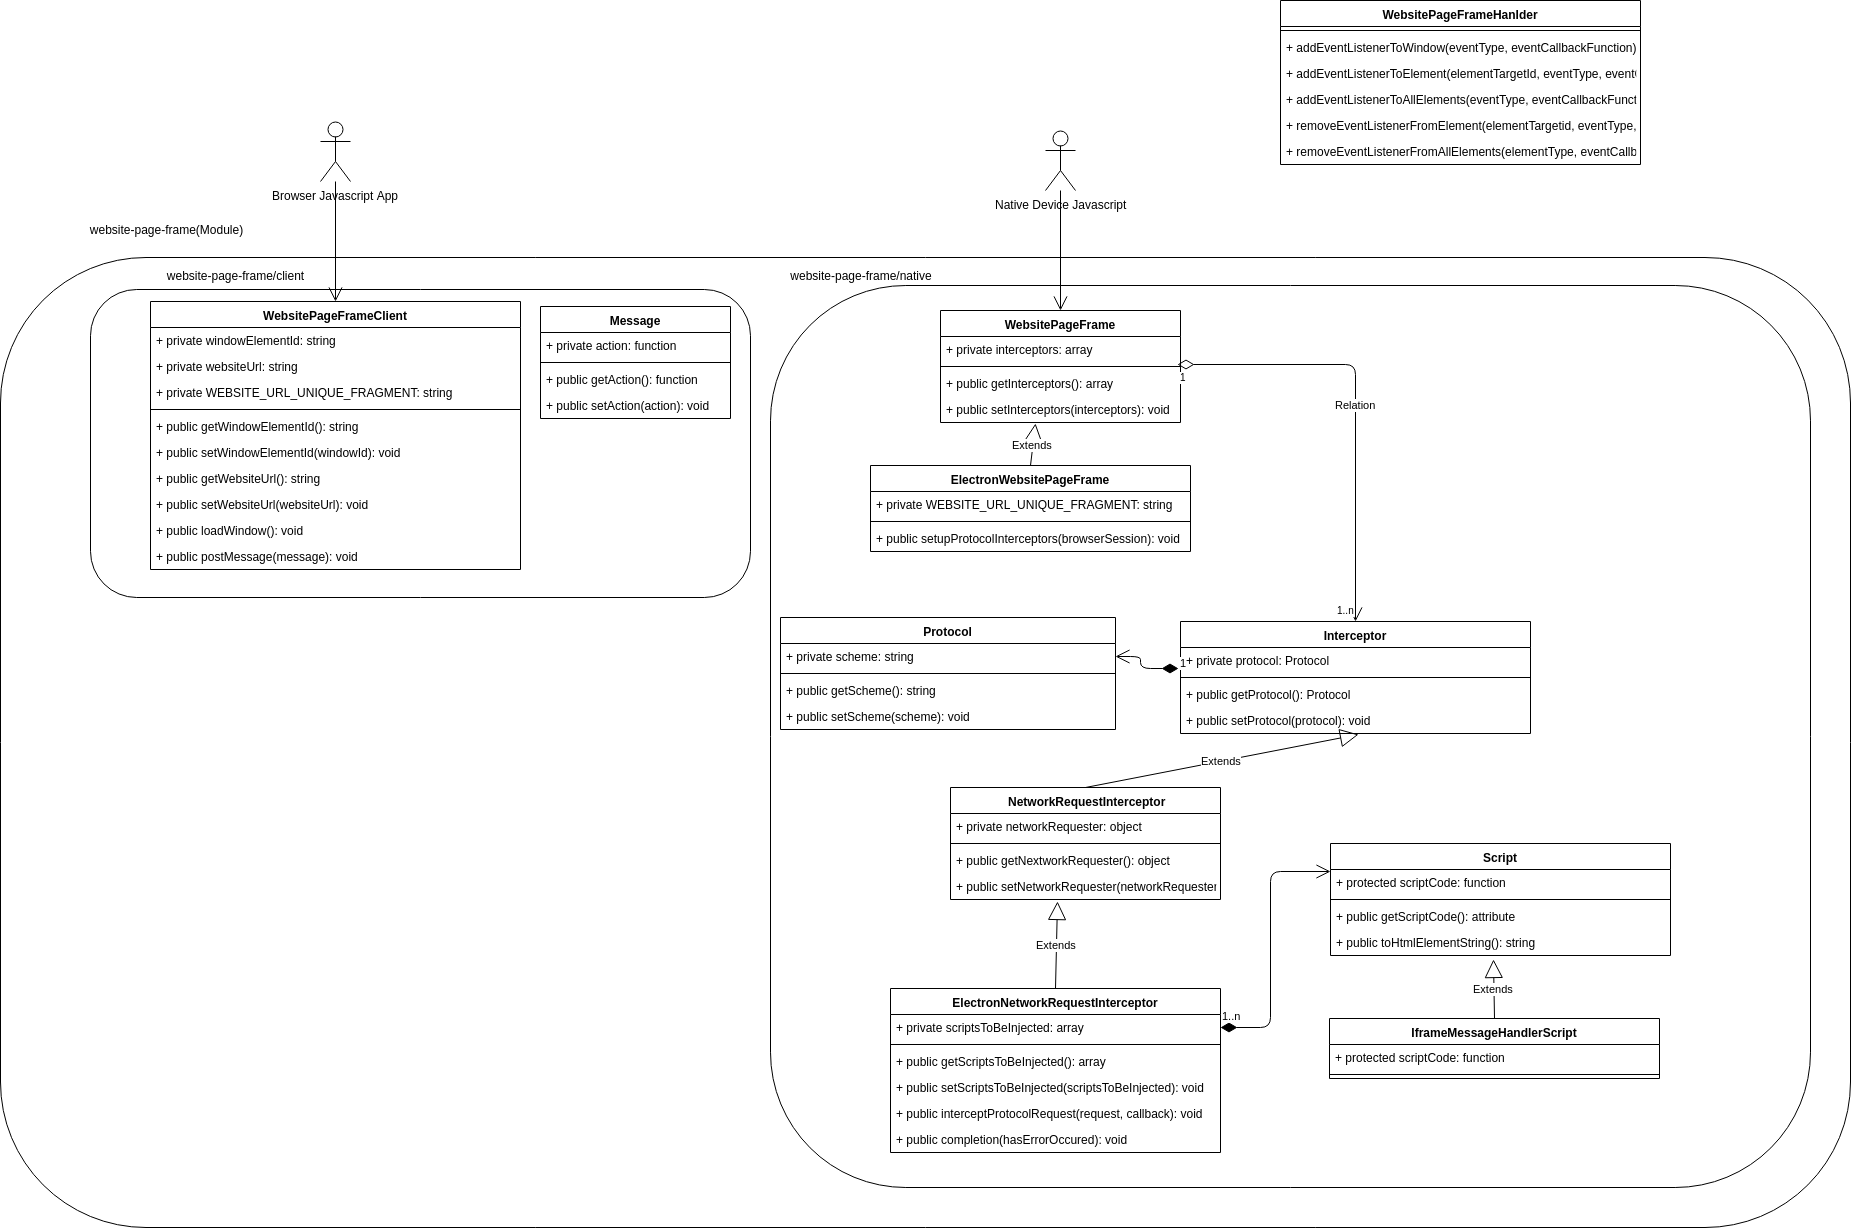
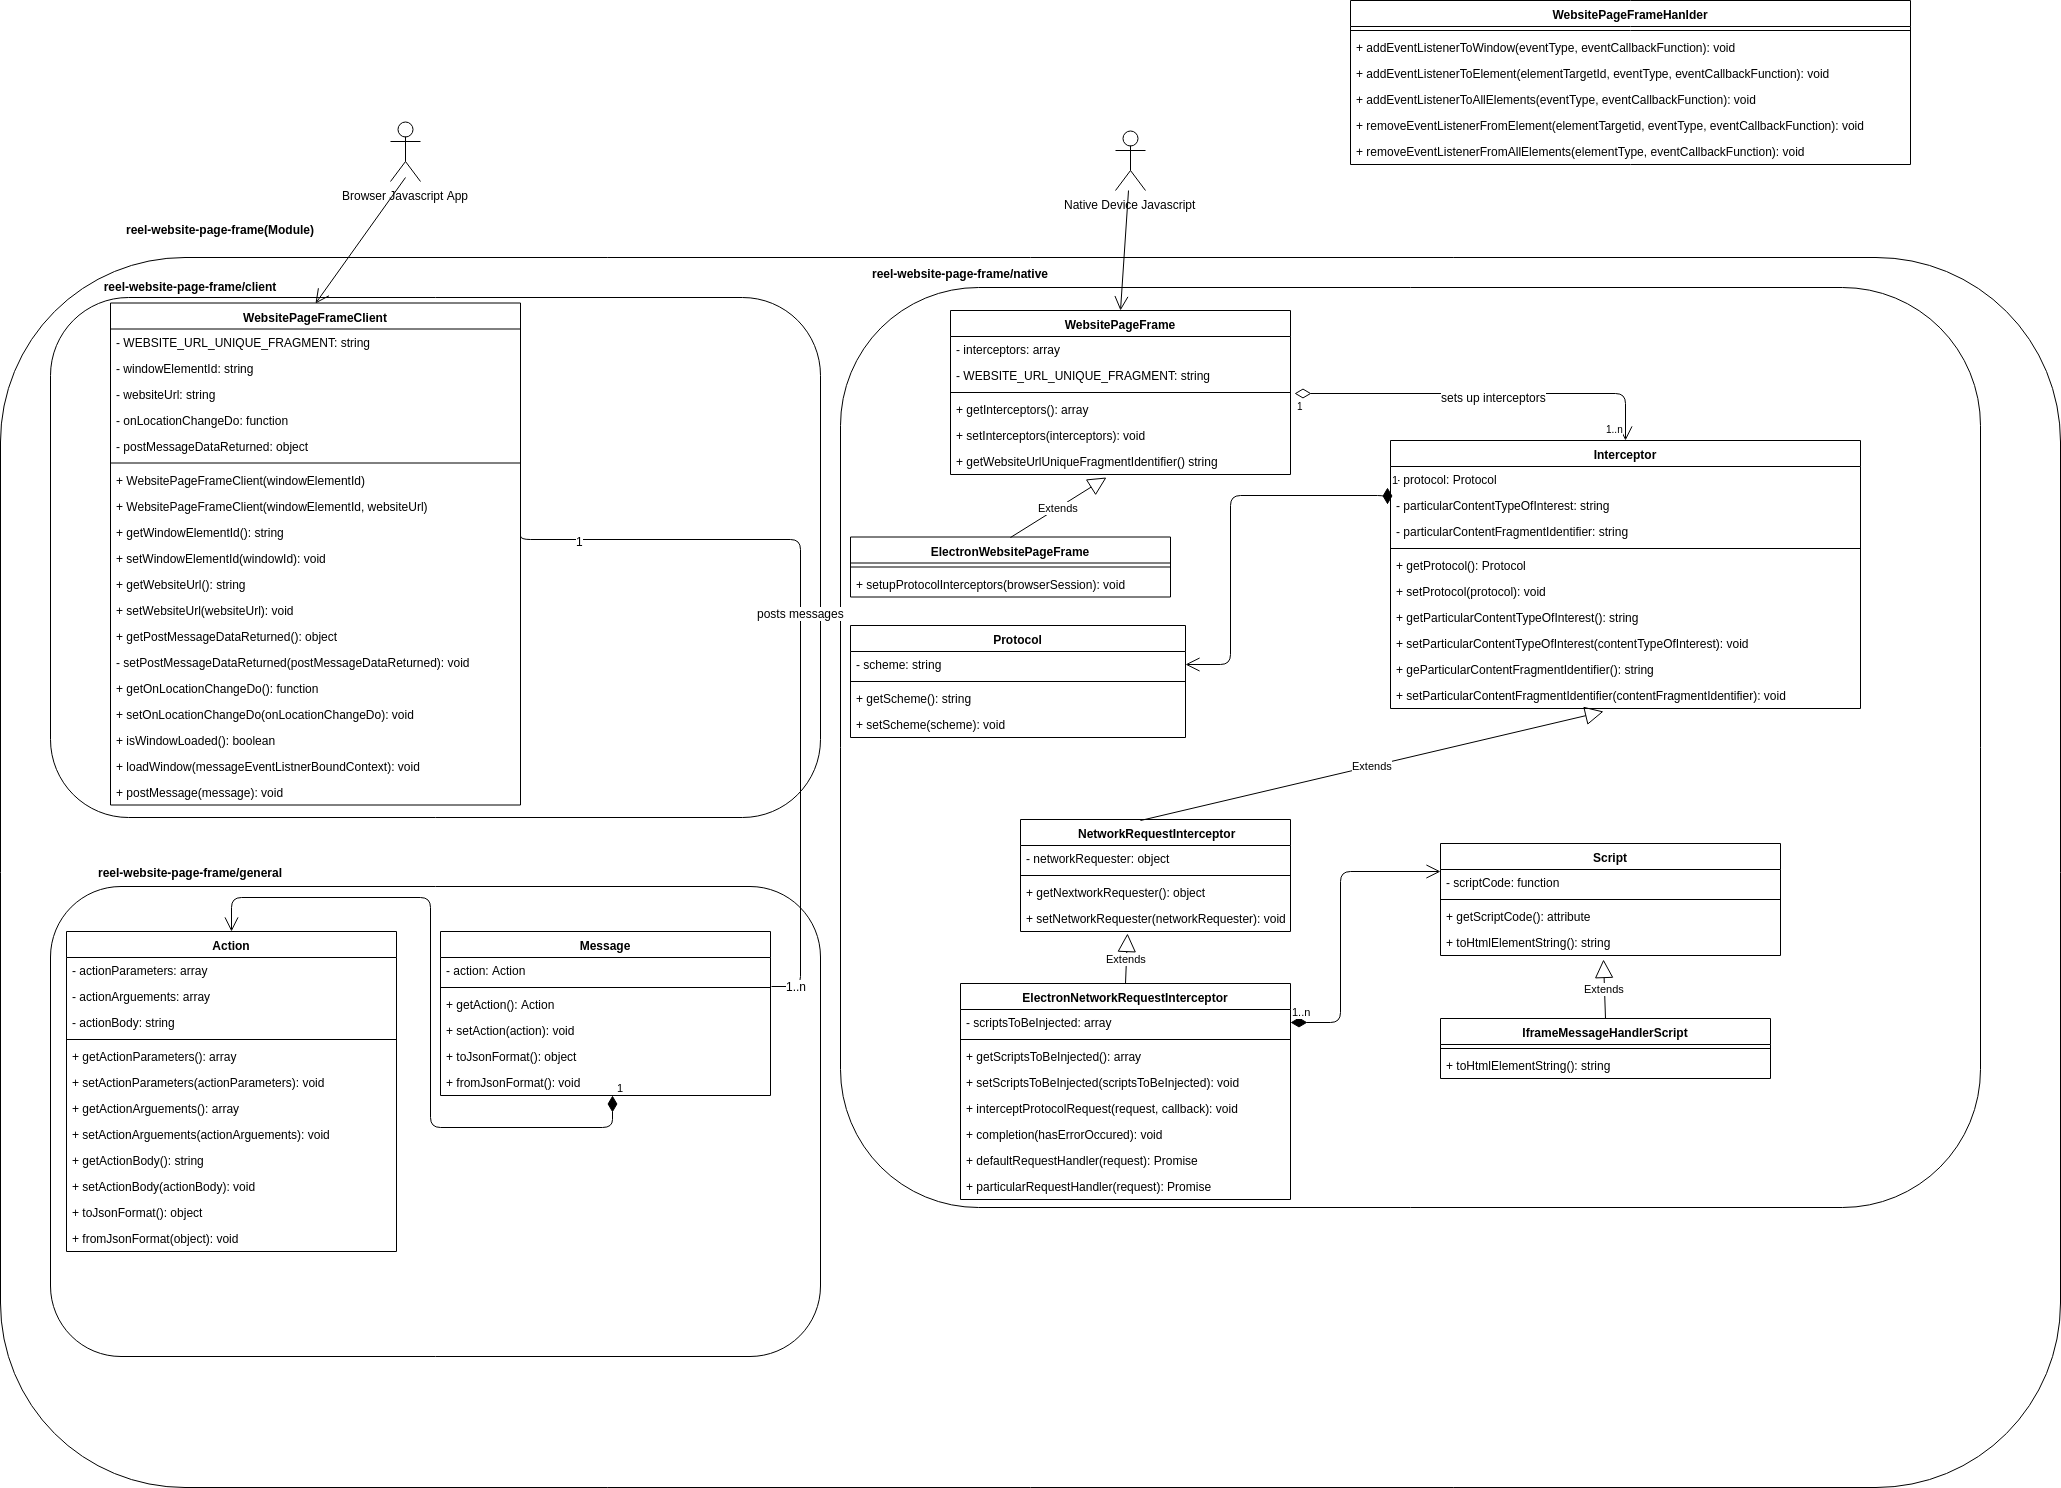
1. onLocationChangeDo functionality added to WebsitePageFrameClient. 2. Unit tested onLocationChangeDo functionality. 3. Integration Test waitUntilWindowLoaded issues with iframe fixed, replaced waitUntilWindowLoaded with waitUntil which allows for more extensive check of windows document elements l

diff --git a/tst/functional/FunctionalTest-spec.js b/tst/functional/FunctionalTest-spec.js
@@ -1,0 +1,103 @@
+var WebsitePageFrameClient = require("../../src/client/website-page-frame-clients/WebsitePageFrameClient.js").WebsitePageFrameClient;
+var Action = require("../../src/general/actions/Action.js");
+var Message = require("../../src/general/messages/Message.js");
+var spectron = require("spectron");
+var Application = require("spectron").Application;
+var electronPath = require("electron");
+var path = require("path");
+
+function setupWindowWebsitePageFrameClient() {
+
+    window.websitePageFrameClient = new WebsitePageFrameClient("videoWebsiteWindow", "http://localhost:8080/index.html");
+
+    websitePageFrameClient.loadWindow();
+}
+
+function getMockSpectronApp () {
+
+    return new Application({
+       path: electronPath,
+       args: [ path.join(__dirname, "main.js") ],
+       env: {
+           ELECTRON_ENABLE_LOGGING: true,
+           ELECTRON_ENABLE_STACK_DUMPING: true,
+           NODE_ENV: "development"
+       },
+       chromeDriverLogPath: path.join(__dirname, "chromedriverlog.log"),
+       webdriverLogPath: path.join(__dirname, "webdriverlogs"),
+       waitTimeout: 20000,
+    });
+
+}
+
+async function waitUntilIframeLoaded() {
+
+
+    var isIframeLoaded = await this.app.client.execute(() => {
+        return (document.getElementById("videoWebsiteWindow").contentWindow.origin === "http://localhost:8080");
+    });
+
+    return isIframeLoaded;
+}
+
+describe("WebsitePageFrame Functional Test", function() {
+
+    beforeAll(function() {
+
+        jasmine.DEFAULT_TIMEOUT_INTERVAL = 30000;
+
+    });
+
+    beforeEach(function() {
+
+        this.app = getMockSpectronApp();
+
+        return this.app.start().then(() => {
+            return this.app.client.execute(setupWindowWebsitePageFrameClient);
+        })
+    });
+
+    afterEach(function() {
+        if (this.app.isRunning()) {
+            return this.app.stop();
+        }
+    });
+
+    it("PostMessage Test", function() {
+
+        return this.app.client.waitUntil(waitUntilIframeLoaded.bind(this), 12500).execute(() => {
+
+            var actionToBeInvoked = new Action([], [], function() {
+
+                document.getElementById("heading").textContent = "HelloWorld";
+                postMessageDataReturned.headingChanged = "HelloWorld";
+
+            });
+
+            var messageToWebsitePageFrame = new Message(actionToBeInvoked);
+
+            websitePageFrameClient.postMessage(messageToWebsitePageFrame);
+
+
+        }).execute(() => {
+
+                var websitePageFrameDocument = document.getElementById(websitePageFrameClient.getWindowElementId()).contentDocument;
+
+                var expectedData = {
+                    "websitePageFrameElementChangedText": websitePageFrameDocument.getElementById("heading").textContent,
+                    "postMessageDataReturned": websitePageFrameClient.getPostMessageDataReturned()
+                };
+
+                return expectedData;
+
+        }).then((expectedData) => {
+
+                var expectedDataValue = expectedData.value;
+
+                expect(expectedDataValue.postMessageDataReturned.ping.toLowerCase()).toEqual("pong");
+                expect(expectedDataValue.postMessageDataReturned.headingChanged.toLowerCase()).toEqual("helloworld");
+                expect(expectedDataValue.websitePageFrameElementChangedText.toLowerCase()).toEqual("helloworld");
+
+        });
+    });
+});

diff --git a/src/client/website-page-frame-clients/WebsitePageFrameClient.js b/src/client/website-page-frame-clients/WebsitePageFrameClient.js
@@ -1,8 +1,9 @@
 function WebsitePageFrameClient(windowElementId, websiteUrl) {
+    this._WEBSITE_URL_UNIQUE_FRAGMENT = "websitePageFrame"
     this._windowElementId = windowElementId;
     this._websiteUrl = websiteUrl;
-    this._WEBSITE_URL_UNIQUE_FRAGMENT = "websitePageFrame"
-    this._postMessageDataReturned;
+    this._onLocationChangeDo = null;
+    this._postMessageDataReturned = null;
 };
 
 WebsitePageFrameClient.prototype.getWindowElementId = function() {
@@ -29,6 +30,29 @@ WebsitePageFrameClient.prototype.setPostMessageDataReturned = function(postMessa
     this._postMessageDataReturned = postMessageDataReturned;
 }
 
+WebsitePageFrameClient.prototype.getOnLocationChangeDo = function() {
+    return this._onLocationChangeDo;
+}
+
+WebsitePageFrameClient.prototype.setOnLocationChangeDo = function(onLocationChangeDo) {
+
+    var websitePageFrame = document.getElementById(this._windowElementId);
+
+    if (websitePageFrame != null) {
+
+        this._onLocationChangeDo = onLocationChangeDo;
+
+        websitePageFrame.addEventListener("load", this._onLocationChangeDo);
+
+    } else {
+
+        throw new Error("ERROR expected element with id " + (this._windowElementId) + " to be present in document but did not find.");
+
+    }
+
+}
+
+
 WebsitePageFrameClient.prototype.isWindowLoaded = function() {
     var result = false;
 
@@ -42,20 +66,20 @@ WebsitePageFrameClient.prototype.isWindowLoaded = function() {
 
 WebsitePageFrameClient.prototype.loadWindow = function() {
 
-    var element = document.getElementById(this.getWindowElementId());
+    var element = document.getElementById(this._windowElementId);
 
     if (element != null) {
-        element.setAttribute("src", this.getWebsiteUrl() + "#" + this._WEBSITE_URL_UNIQUE_FRAGMENT);
+        element.setAttribute("src", this._websiteUrl + "#" + this._WEBSITE_URL_UNIQUE_FRAGMENT);
 
         window.addEventListener("message", function(event) {
 
-            if (this.getWebsiteUrl().includes(event.origin)) {
+            if (this._websiteUrl.includes(event.origin)) {
                 this.setPostMessageDataReturned(event.data);
             }
 
         }.bind(this));
     } else {
-        throw new Error("ERROR!!!, method loadPage of call WebsitePageFrame, cannot find iframe element with id " + this.getIframeId());
+        throw new Error("ERROR!!!, method loadPage of call WebsitePageFrame, cannot find iframe element with id " + this._windowElementId);
     }
 
 }
@@ -64,8 +88,9 @@ WebsitePageFrameClient.prototype.postMessage = function(message) {
 
     this._postMessageDataReturned = null;
 
-    var windowElement = document.getElementById(this.getWindowElementId());
-    windowElement.contentWindow.postMessage(message.toJsonFormat(), this.getWebsiteUrl());
+    var windowElement = document.getElementById(this._windowElementId);
+
+    windowElement.contentWindow.postMessage(message.toJsonFormat(), this._websiteUrl);
 }
 
 exports.WebsitePageFrameClient = WebsitePageFrameClient;

diff --git a/tst/functional/main.js b/tst/functional/main.js
@@ -2,7 +2,7 @@ var ElectronWebsitePageFrame = require("../../src/native/website-page-frames/Ele
 var ElectronNetworkRequestInterceptor = require("../../src/native/interceptors/ElectronNetworkRequestInterceptor.js").ElectronNetworkRequestInterceptor;
 var IframeMessageHandlerScript = require("../../src/native/scripts/IframeMessageHandlerScript.js").IframeMessageHandlerScript;
 var Protocol = require("../../src/native/protocols/Protocol.js").Protocol;
-const { app, session, BrowserWindow } = require("electron");
+const { app, session, protocol, BrowserWindow } = require("electron");
 let appWindow;
 
 function createWindow() {
@@ -17,6 +17,7 @@ function createWindow() {
     var electronWebsitePageFrame = new ElectronWebsitePageFrame();
 
 
+
     electronWebsitePageFrame.setupProtocolInterceptors(session.defaultSession);
 
 
@@ -24,5 +25,5 @@ function createWindow() {
         appWindow = null;
     });
 }
-
+protocol.registerStandardSchemes(["http", "https"]);
 app.on("ready", createWindow);

diff --git a/tst/unit/client/website-page-frame-clients/WebsitePageFrameClient-spec.js b/tst/unit/client/website-page-frame-clients/WebsitePageFrameClient-spec.js
@@ -11,8 +11,11 @@ describe("WebsitePageFrameClient Class test suite", function() {
     });
 
     it("Constructor test", function() {
+
         expect(this.websitePageFrameClient.getWindowElementId()).toEqual("videoWebsiteIframe");
         expect(this.websitePageFrameClient.getWebsiteUrl()).toEqual("https://www.froogle-video.com");
+        expect(this.websitePageFrameClient.getOnLocationChangeDo()).toBe(null);
+
     });
 
     it("Mutators test", function() {
@@ -24,5 +27,13 @@ describe("WebsitePageFrameClient Class test suite", function() {
 
         expect(this.websitePageFrameClient.getWindowElementId()).toEqual(windowElementIdComparingTo);
         expect(this.websitePageFrameClient.getWebsiteUrl()).toEqual(websiteUrlComparingTo);
+
+        expect(function () {
+
+            this.websitePageFrameClient.setOnLocationChangeDo(function() {})
+
+        }).toThrowError();
+
+
     });
 });

diff --git a/tst/functional/test-website/startServer.js b/tst/functional/test-website/startServer.js
@@ -37,12 +37,15 @@ http.createServer(function (request, response) {
     var pathname = url.parse(request.url).pathname;
 
     fs.readFile(pathname.substr(1), function(errorOcurred, data) {
+        
         if(errorOcurred) {
             serverLogger.error(errorOcurred);
             response.writeHead(404, config.defaultResponseHeaders);
+
         } else {
 
             response.writeHead(200, config.defaultResponseHeaders);
+
             response.write(data.toString());
         }
         response.end();

diff --git a/tst/functional/client/index.html b/tst/functional/client/index.html
@@ -4,8 +4,8 @@
         <meta charset="UTF-8"/>
     </head>
     <body>
-        <h1> WEBSITE-PAGE-FRAME-INTEGRATION-TESTS </h1>
-        <h2 title="TEST 1 OUTPUT." id="testOutput1"></h2>
+        <h1> WEBSITE-PAGE-FRAME-FUNCTIONAL-TESTS </h1>
+
         <iframe src="" id="videoWebsiteWindow">
         </iframe>
     </body>
